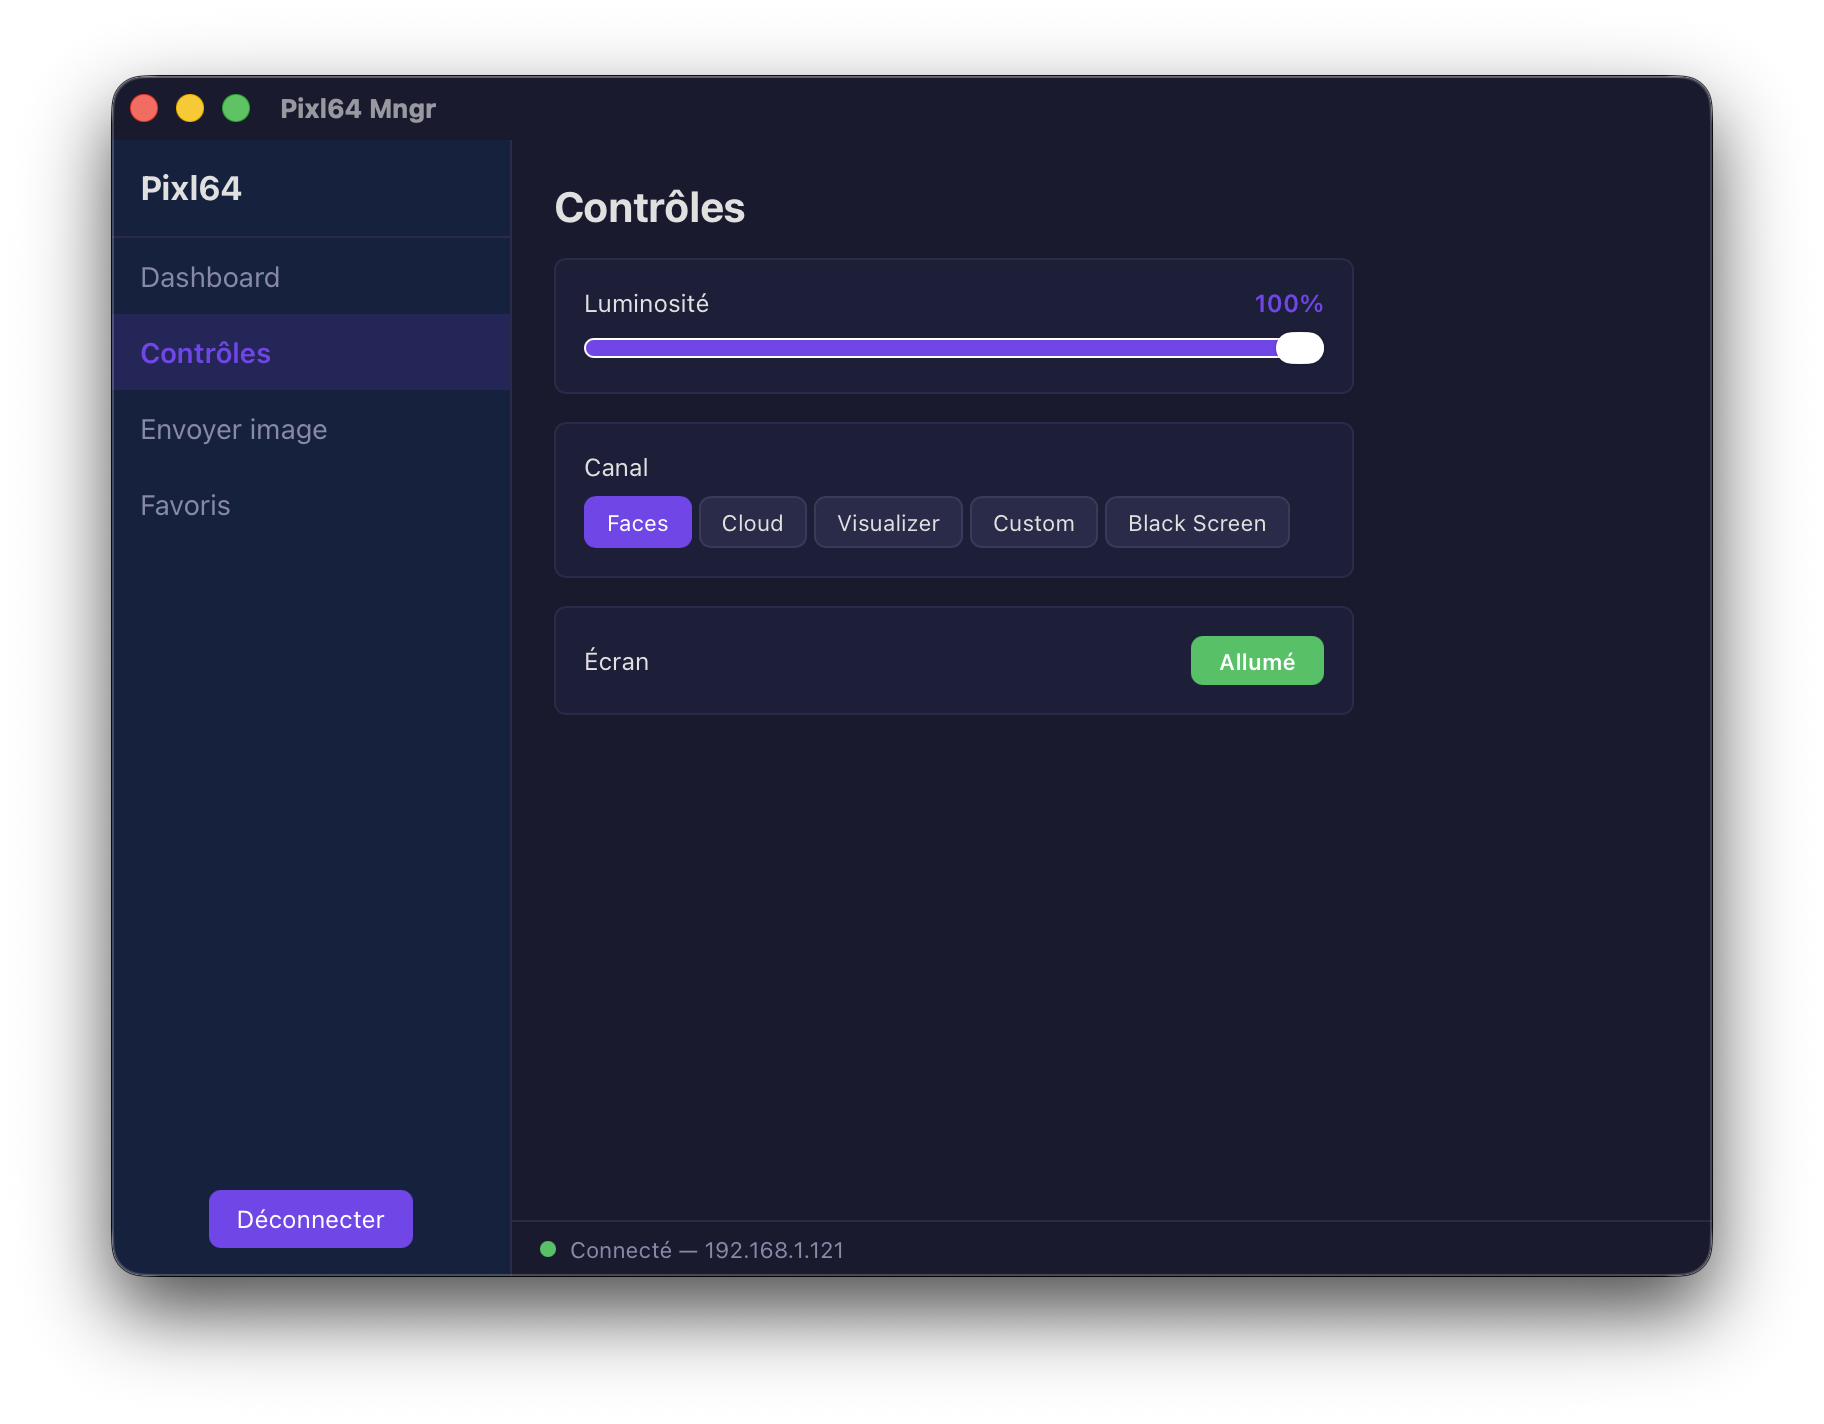
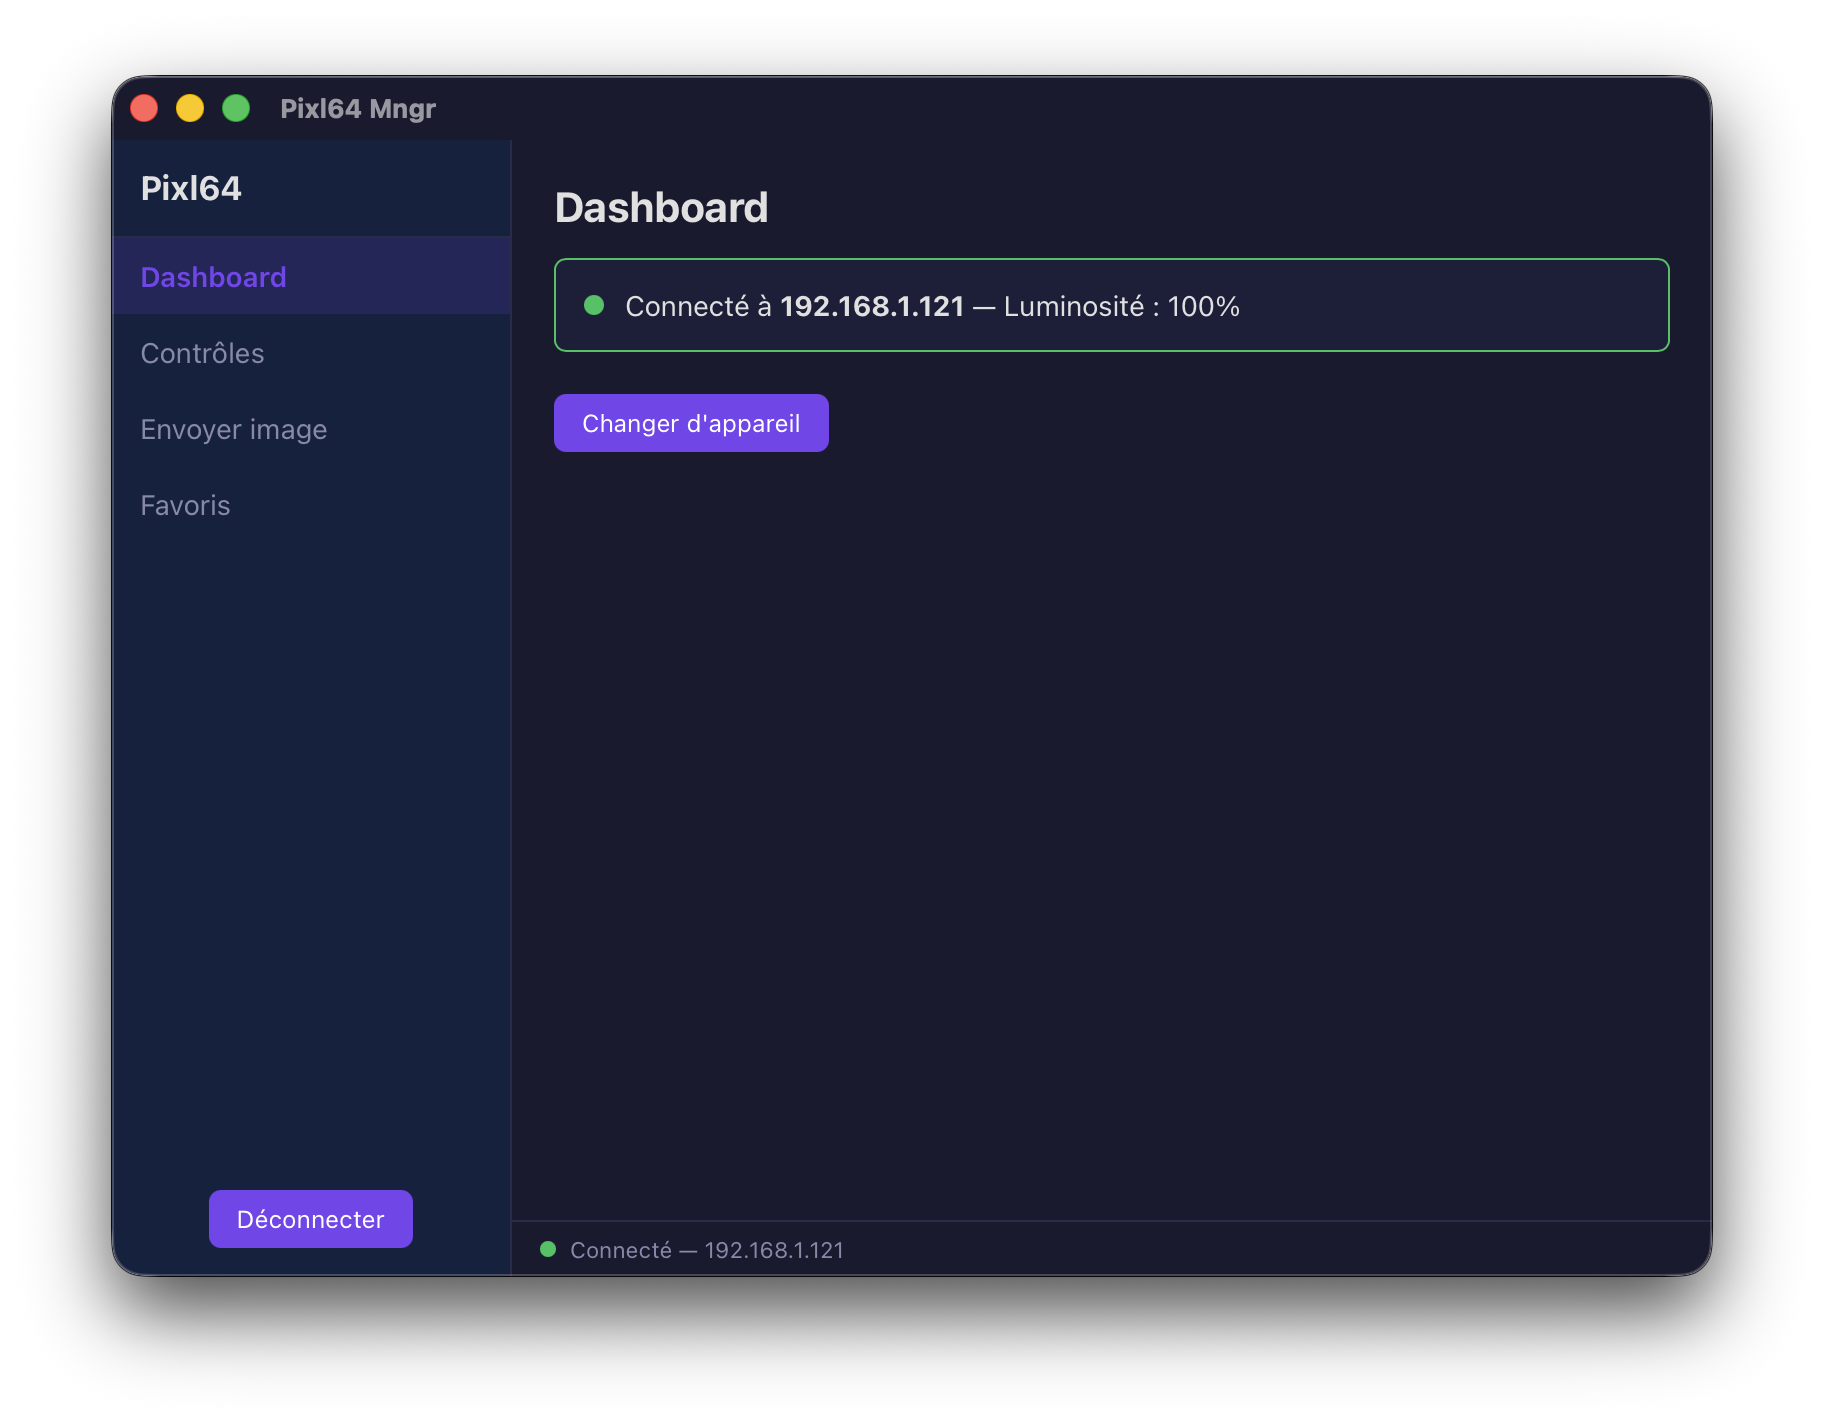
docs: replace discovery screenshot with controls panel

diff --git a/README.md b/README.md
@@ -51,9 +51,9 @@ Pre-built binaries are available on the [Releases page](https://github.com/Carib
 
 ## Screenshots
 
-| Discovery | Connection | Dashboard |
+| Connection | Dashboard | Controls |
 |---|---|---|
-| ![Discovery](docs/screenshots/research.png) | ![Connection](docs/screenshots/connection.png) | ![Dashboard](docs/screenshots/dashboard.png) |
+| ![Connection](docs/screenshots/connection.png) | ![Dashboard](docs/screenshots/dashboard.png) | ![Controls](docs/screenshots/control.png) |
 
 | Send image | Cropper | Favorites |
 |---|---|---|